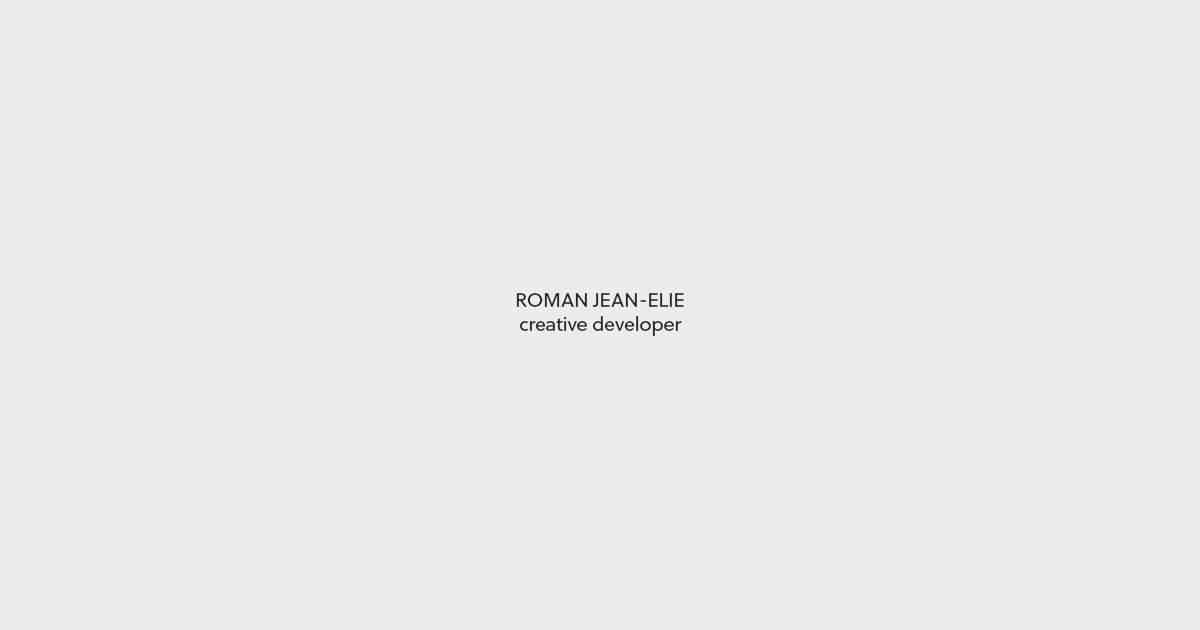
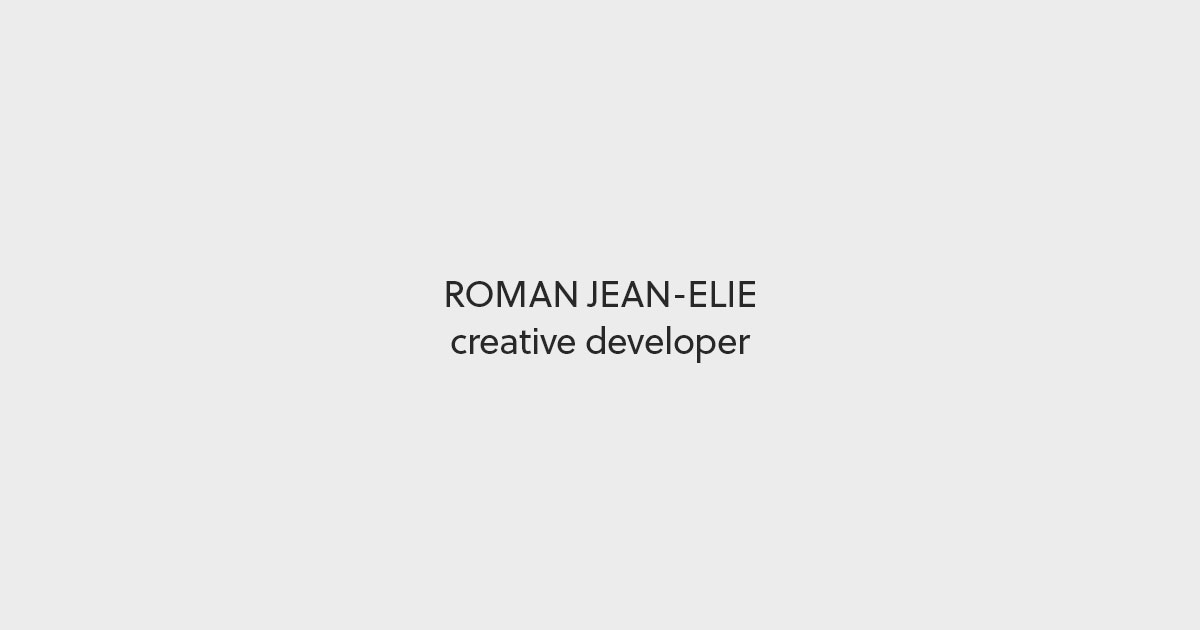
add social img 4

Changed region(s): [[0.37, 0.4222, 0.6475, 0.573]]

diff --git a/index.html b/index.html
@@ -21,7 +21,7 @@
     <meta name="twitter:card" content="summary_large_image" />
     <meta name="twitter:title" content="Roman Jean-Elie - creative developer" />
     <meta name="twitter:description" content="Portfolio" />
-    <meta name="twitter:image" content="https://pfl1.netlify.app/social.598b1db8.jpg" />
+    <meta name="twitter:image" content="https://pfl1.netlify.app/social.323b0aa4.jpg" />
     <!-- Face@ook -->
     <meta property="og:type" content="website" />
     <meta property="og:url" content="https://www.romanjeanelie.com" />
